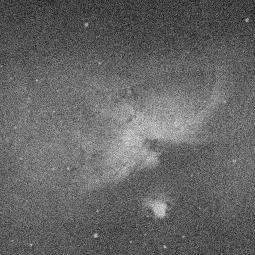
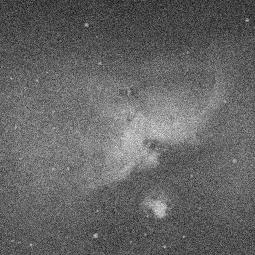
bugfixing

Changed region(s): [[0.0, 0.0, 1.0, 1.0]]

diff --git a/add_noise.py b/add_noise.py
@@ -17,7 +17,7 @@ if __name__ == "__main__":
         os.makedirs(output_folder_uniform)
 
     noise_gaussian = generate_gaussian_noise(255, 255, mean=0, variance=0.1)
-    noise_uniform = generate_uniform_noise(255, 255, scale=1, mean=0)
+    noise_uniform = generate_uniform_noise(255, 255, scale=0.5, mean=0)
 
     # generate a white image
     img_white = Image.new('L', (255, 255), 255)
